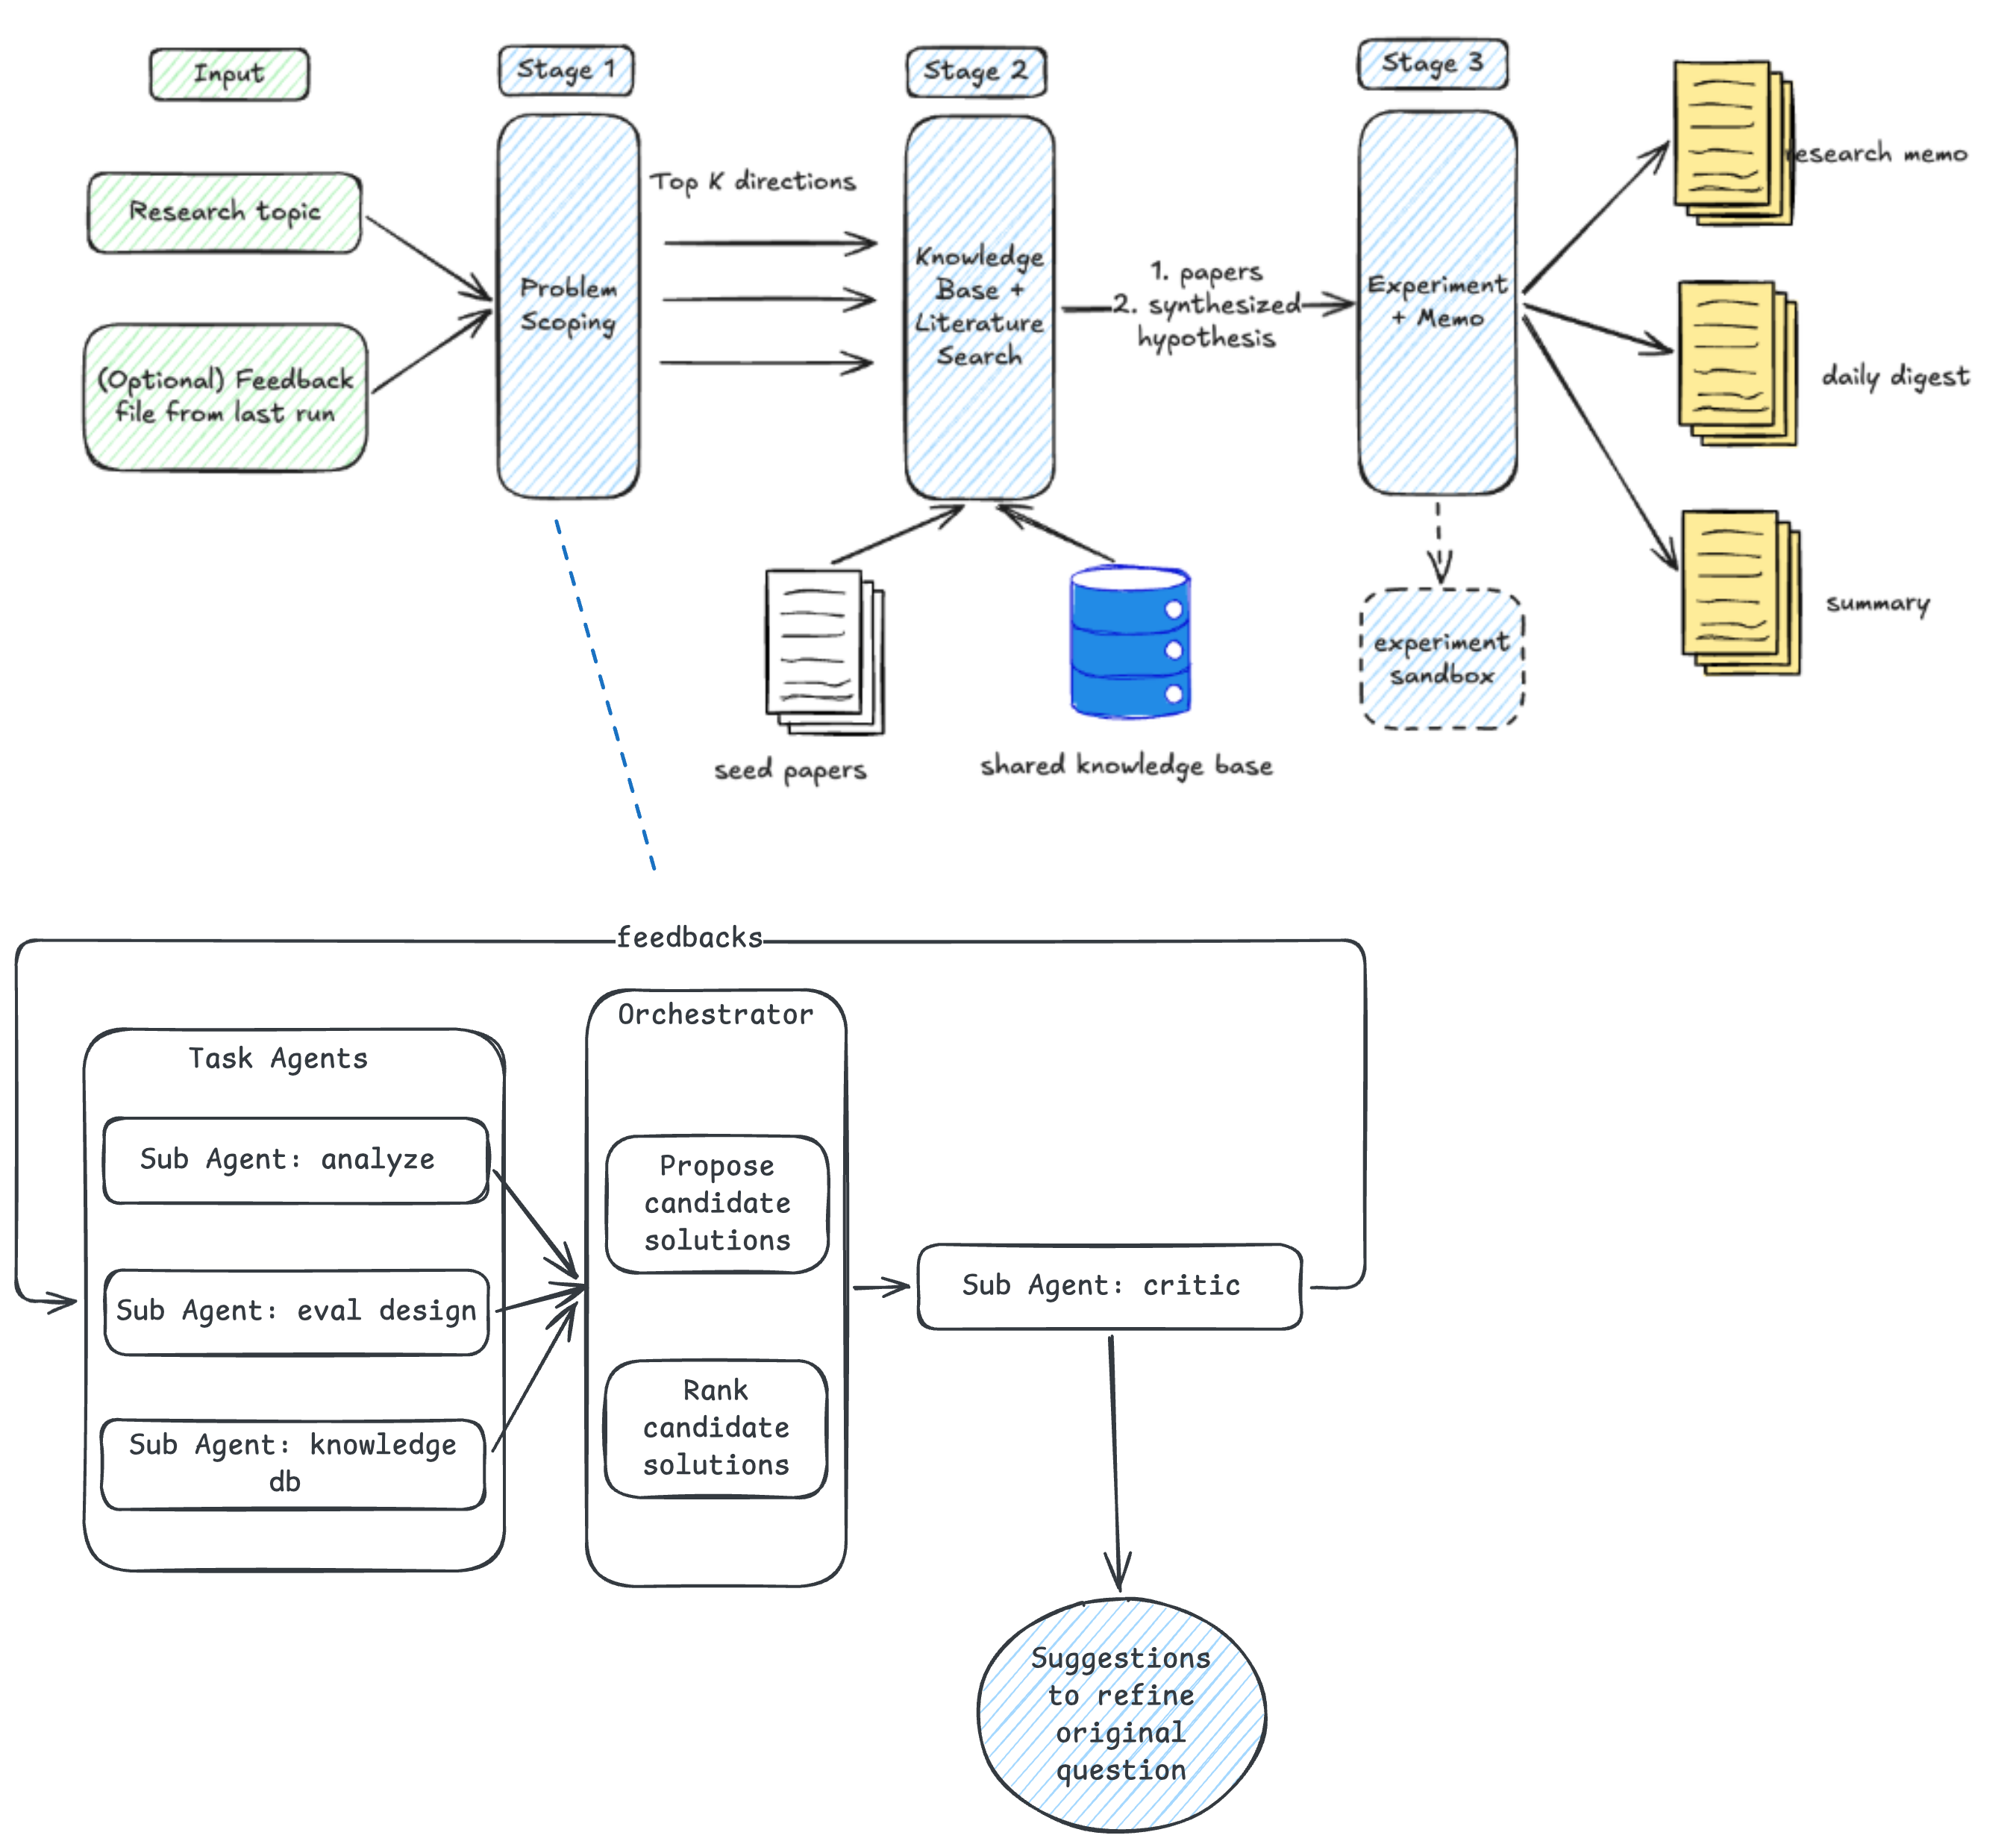
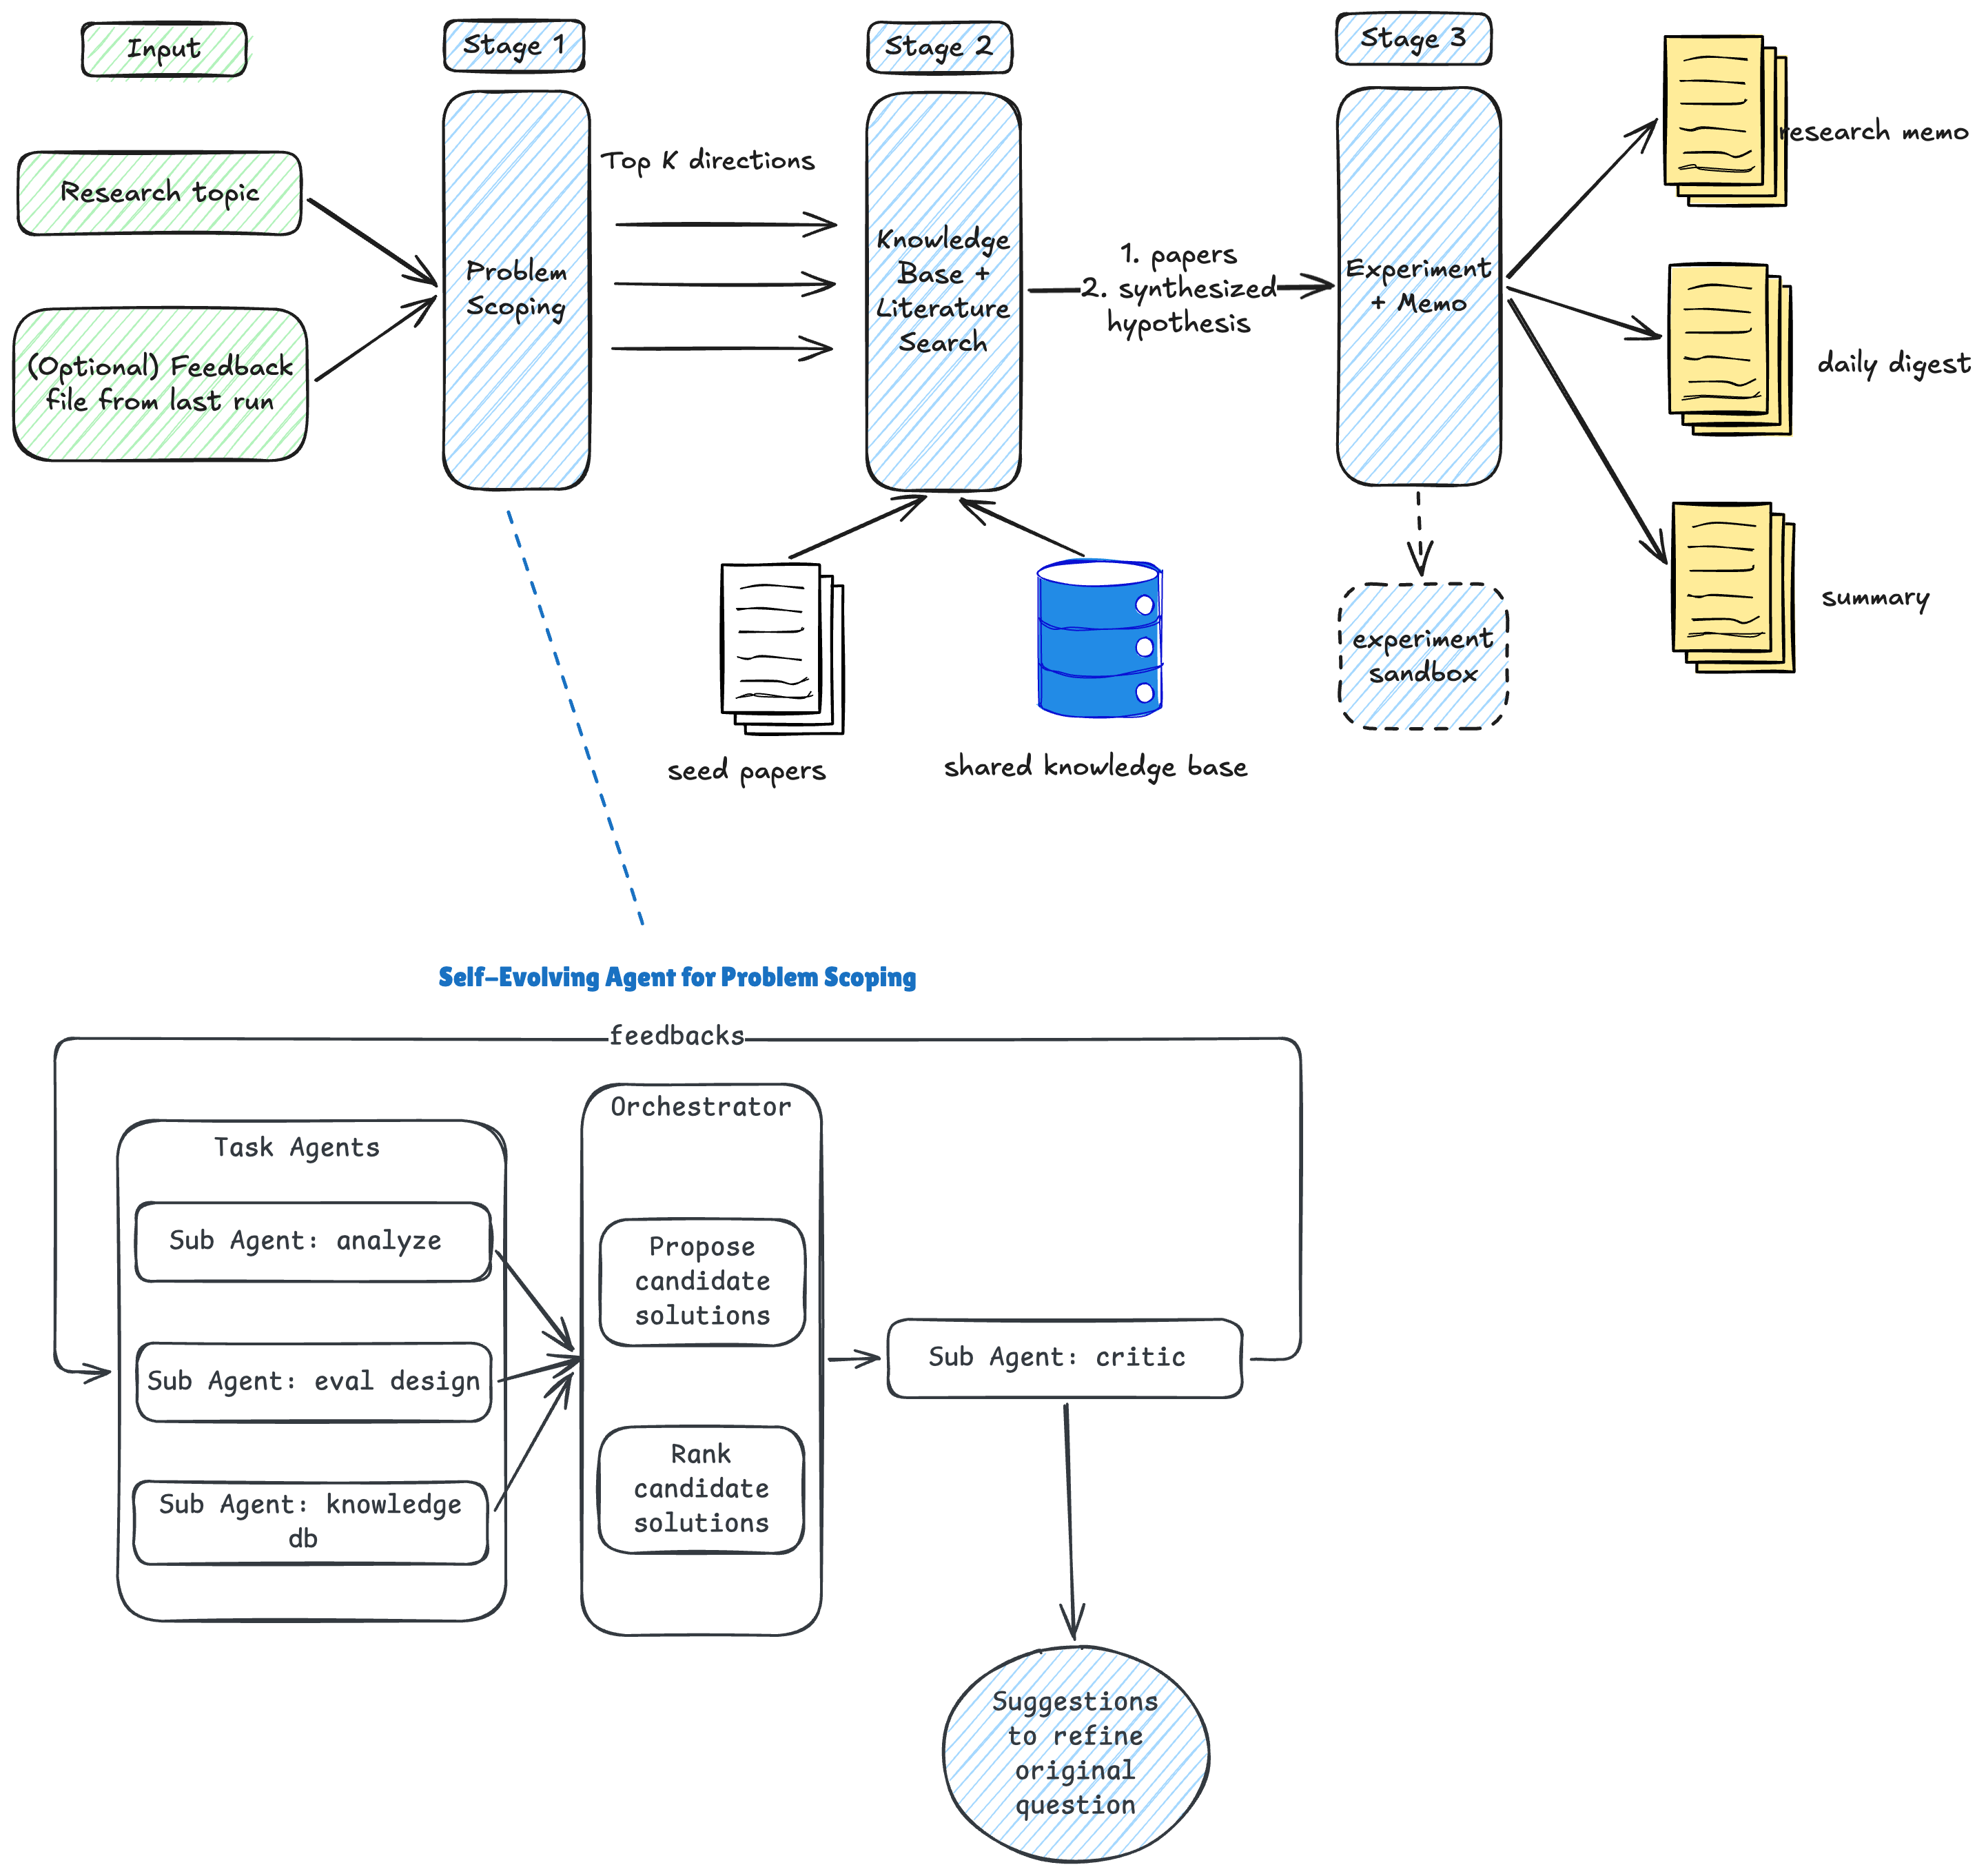
changes and bump to 1.0

Changed region(s): [[0.0, 0.0, 0.9948, 0.4354], [0.0, 0.4976, 0.6528, 0.9952], [0.6528, 0.5598, 0.6839, 0.7153]]

diff --git a/README.md b/README.md
@@ -1,83 +1,307 @@
-# AutoResearch — Lab Shell
+# AutoResearch
 
-This repo is the user-facing surface for the AutoResearch pipeline. Edit prompts, configs, and your knowledge base here; the orchestration runs inside a Docker image that's auto-pulled by `run.sh`.
+Autonomous research assistant. Given a topic and a small set of reference papers, AutoResearch scopes the problem (with a critic-evolve loop), runs a literature search, designs and executes experiments, and writes a 2-page mini-paper plus a one-page executive summary end-to-end.
+
+***Note***: this repo is the shell version of this product for the labs we're collaborating with. It doesn't contain the full code. Licensed research groups have access to the docker image of this product. 
 
 ## Setup
 
 ```bash
-# 1. Install Docker + GitHub Container Registry access
-docker login ghcr.io       # use a GitHub PAT with read:packages
+# 1. Install (uses uv)
+uv sync
 
-# 2. Copy your API key
-cp .env.example .env
-$EDITOR .env               # add ANTHROPIC_API_KEY=sk-ant-...
-
-# 3. Smoke test
-./run.sh run --help
+# 2. API key
+echo 'ANTHROPIC_API_KEY=sk-ant-...' > .env
 ```
 
-## Usage
+## Quick start
+
+### Step 1. List the reference papers in `knowledge_base/references.json`
+
+Create the file at the repo root (or wherever your config lives — see "References file location" below) with a flat JSON list of URLs:
+
+```json
+[
+  "https://bitvm.org/bitvm.pdf",
+  "https://eprint.iacr.org/2025/1485.pdf"
+]
+```
+
+Max 10 URLs per run (hard cap — raise with `scope_kb_max_papers` if you need more).
+
+### Step 2. Build the knowledge base
 
 ```bash
-# Full pipeline run on the bitcoin config
-./run.sh run --config config_bt.yaml
-
-# Scope only (fast feedback loop while editing prompts)
-./run.sh run --config config_bt.yaml --stop-after scope
-
-# Resume an existing run after editing a downstream prompt
-./run.sh run --config config_bt.yaml --resume <user_name>_20260521T143000 --start-from literature
+uv run python build_knowledgedb.py
 ```
 
-Outputs land in `research_runs/<project_id>/<user_id>_<timestamp>/`. Commit them to share with the group.
+This fetches every URL, extracts metadata (title, authors, abstract, keywords) via the LLM, and markdownifies the paper body. Output lands in `knowledge_base/index.json` + `knowledge_base/raw/<slug>.{pdf,html,md}`. Idempotent — URLs already in `index.json` are skipped on subsequent runs.
 
-## What you edit here
+You can technically skip this step — stage_scope will auto-build any missing entries on its first run — but pre-warming the cache makes the actual research run much faster.
 
-- **`prompts/*.md`** — the methodology. This is the main reason you have this repo. Edit a prompt, re-run, iterate.
-- **`config*.yaml`** — topic, model, tunables.
-- **`knowledge_base/`** — seed papers + extracted metadata. Run `./run.sh build-kb` to refresh.
+### Step 3. Write `config.yaml`
 
-When you change a prompt, save and re-run — there's no rebuild step.
+See "Configuration" below for the full schema. The minimum required fields are: `topic`, `project_id`, `user_id`, `is_base_run`, `note`.
 
-## Updating the orchestration
+### Step 4. Run the pipeline
 
-When the contractor pushes a new image version:
-
-1. `git pull` this repo — picks up the new `run.sh` PINNED_VERSION, updated canonical prompts, and a `CHANGELOG.md` entry.
-2. If you've locally modified a prompt that also changed upstream, git will surface a merge conflict. Resolve it the usual way.
-3. Run as normal — `run.sh` will pull the new image on first invocation.
-
-To peek at a version not yet pinned:
 ```bash
-AUTORESEARCH_VERSION=latest ./run.sh run --config config_bt.yaml
+# First, just run the scoping stage
+uv run python cli.py run --config config.yaml --stop-after scope
+
+# If the scoping looks good, resume the run, picking up from the stage
+uv run python cli.py run --config config.yaml \
+  --resume <user_name>_20260521T143000 \
+  --start-from literature
+
+# Verbose (prints every system+user prompt to stderr)
+uv run python cli.py run --config config.yaml --debug
 ```
 
-## Layout
+Outputs land in `research_runs/<project_id>/<user_id>_<timestamp>/`. The `00_summary.md` at the top is the executive briefing — start there.
+
+### References file location
+
+By convention the system auto-discovers `<config_dir>/knowledge_base/references.json`. Override with the `references:` field in your config if you keep your KB elsewhere (e.g. shared across projects).
+
+## Knowledge base
+
+The knowledge base is the set of reference papers the scope stage feeds into every sub-agent (analysis, eval_design, scope orchestrator, critic, evolve). All you maintain is `references.json` — a flat list of URLs.
+
+### Folder layout
 
 ```
-.
-├── run.sh                   # wraps docker run
-├── prompts/                 # canonical methodology — edit freely
-│   ├── scope.md
-│   ├── analysis.md
-│   ├── eval_design.md
-│   ├── critic.md
-│   ├── evolve.md
-│   ├── search_queries.md
-│   ├── literature_rank.md
-│   ├── literature_synthesis.md
-│   ├── experiment_*.md
-│   ├── summary.md
-│   ├── kb_extract.md
-│   └── graph_extract.md
-├── config_bt.yaml           # bitcoin / cryptography topic
-├── config_ml.yaml           # alt topic
-├── knowledge_base/
-│   ├── index.json
-│   ├── references.json
-│   └── raw/                 # gitignored — re-fetchable from references.json
-├── research_runs/           # outputs — commit selectively
-├── CHANGELOG.md
-├── .env.example
-└── .gitignore
+knowledge_base/
+├── references.json    ← you edit this
+├── index.json         ← auto-generated metadata (title, authors, abstract, keywords)
+└── raw/               ← auto-fetched paper bodies
+    ├── bitvm-compute-anything.md         ← markdown extracted from PDF/HTML
+    ├── bitvm-compute-anything.pdf        ← original (heavy; gitignored by default)
+    └── ...
 ```
+
+### Auto-build on scope-stage run
+
+When stage_scope runs, it reads `references.json` and for each URL not yet in `index.json`:
+
+1. Fetches the URL (PDF or HTML)
+2. Markdownifies the body to `raw/<slug>.md`
+3. Calls the LLM with `prompts/kb_extract.md` to extract metadata
+4. Appends an entry to `index.json`
+
+Already-indexed URLs are skipped. So `references.json` is the only file you edit; the system handles the rest.
+
+### Manual build (optional)
+
+You can also pre-warm the cache before running the pipeline:
+
+```bash
+# Default knowledge_base/ next to the repo root
+uv run python build_knowledgedb.py
+
+# A different directory (e.g. per-project KB)
+uv run python build_knowledgedb.py --kb-dir bitcoin_kb
+
+# Re-extract everything
+uv run python build_knowledgedb.py --force
+```
+
+### Constraints
+
+- **Max 10 papers** per `references.json` by default — the scope stage hard-fails if more. Raise with `scope_kb_max_papers` (see below). The cap exists because every sub-agent sees the full markdown of every paper.
+- **40k chars per paper** — papers longer than this get truncated with a `[...TRUNCATED]` marker (and an alert in the log). Raise with `scope_kb_max_chars_per_paper` if your papers are dense.
+- **Caching**: the KB is injected as a `cache_control: ephemeral` system block in every sub-agent call. First call writes the cache (~~125% input price for that block); subsequent calls within 5 minutes read it (~~10% price). Roughly 3× cheaper than passing it uncached.
+
+## Configuration
+
+All paths in the YAML resolve relative to the config file's directory, not the shell's working directory.
+
+### Full config example
+
+This shows every field. Required fields are uncommented; optional fields show their default value.
+
+```yaml
+# ── Required ──────────────────────────────────────────────────────────
+
+# The research problem in one sentence. Drives every downstream stage.
+topic: "Optimize Bitcoin on-chain cost for bridge publication."
+
+# Project slug — groups runs of the same research area together.
+# Allowed chars: lowercase letters, digits, underscore, hyphen.
+# Must start and end alphanumerically.
+project_id: "bitcoin-cost-optimization"
+
+# User slug — identifies who launched the run. Same rules as project_id.
+# Folder names embed this: research_runs/<project_id>/<user_id>_<timestamp>/
+user_id: "xxx"
+
+# true  = fresh run; later fields starting with `base_run_id` / `feedbacks_file`
+#         MUST be omitted.
+# false = iterative run; `base_run_id` + `feedbacks_file` REQUIRED below.
+is_base_run: true
+
+# Free-text note shown in the scope artifact's header. Use "" if none.
+# Good for tagging a run with a short reminder (e.g. "trying smaller KB").
+note: ""
+
+
+# ── Iterative run only — omit when is_base_run: true ─────────────────
+
+# Run folder name to refine. Three accepted shapes:
+#   leaf:                 <user_name>_20260508T132542
+#   project-qualified:    bitcoin-cost-optimization/<user_name>_20260508T132542
+#   full path:            research_runs/bitcoin-cost-optimization/<user_name>_...
+# base_run_id: "<user_name>_20260508T132542"
+
+# Path to a markdown file containing reviewer feedback for this iteration.
+# Resolved relative to the config file. Each stage reads its prior artifact
+# and this file to produce a refined version.
+# feedbacks_file: "./feedbacks.md"
+
+
+# ── Knowledge base ────────────────────────────────────────────────────
+
+# Path to references.json (a flat JSON list of paper URLs). If omitted,
+# auto-discovers <config_dir>/knowledge_base/references.json. Set explicitly
+# only when your KB lives elsewhere (e.g. shared across projects).
+# references: "./knowledge_base/references.json"
+
+# Hard ceiling on the number of URLs in references.json. Scope stage fails
+# BEFORE doing any fetching when this is exceeded. Default is the safe
+# context-budget assumption: 10 papers × 40k chars ≈ 100k tokens injected
+# into every sub-agent call. Raise only if you've measured the token math.
+scope_kb_max_papers: 10
+
+# Per-paper char cap when injecting markdown into sub-agent prompts.
+# Papers longer than this are head-truncated with a "[...TRUNCATED]" marker
+# and an alert in the log. Raise for dense papers; lower to save tokens.
+scope_kb_max_chars_per_paper: 40000
+
+
+# ── Model ─────────────────────────────────────────────────────────────
+
+# Anthropic model used for the main pipeline (scope, rank, synth, experiment).
+# Stage 2 also spins up a haiku for cheap query-gen + web search regardless.
+# Examples: claude-opus-4-7, claude-sonnet-4-6
+model: "claude-opus-4-7"
+
+# Default per-call output cap. Each LLM.complete() defaults to this unless
+# overridden (codegen uses exp_codegen_max_tokens below). Raise for stages
+# that emit long markdown (memo, summary); lower to enforce conciseness.
+max_tokens: 16384
+
+
+# ── Output ────────────────────────────────────────────────────────────
+
+# Where run folders are written. Each run lands at
+# <output_dir>/<project_id>/<user_id>_<timestamp>/. Default: ./research_runs
+output_dir: "./research_runs"
+
+
+# ── Stage 2: literature search ───────────────────────────────────────
+
+# Raw hits pulled per web_search query before dedupe. Lower to save haiku
+# tokens / wall-clock; raise for broader coverage of niche topics.
+lit_results_per_query: 5
+
+# Number of ranked survivors that enter the synthesis call. The synthesis
+# LLM sees one paper-row per item, so this drives the size of the final
+# literature.md. Default: 12.
+lit_top_n: 20
+
+
+# ── Stage 3: experiment ──────────────────────────────────────────────
+
+# Wall-clock budget (seconds) for ONE attempt of the generated experiment
+# subprocess. If it times out, the self-heal loop feeds the traceback back
+# to the LLM for a patch. Raise for simulations with high trial counts.
+exp_timeout_sec: 500
+
+# Self-heal attempts before giving up. Each retry costs one LLM patch call
+# plus one subprocess run. Default: 3.
+exp_max_retries: 3
+
+# Per-call output cap for codegen + patch (separate from max_tokens because
+# experiment code is long — easy to truncate mid-file otherwise).
+# Default: 32768. Sonnet supports up to 64000.
+exp_codegen_max_tokens: 16384
+```
+
+## CLI
+
+```bash
+# First, just run the scoping stage
+uv run python cli.py run --config config_bt.yaml --stop-after scope
+
+# If the scoping looks good, resume the run, picking up from the stage
+uv run python cli.py run --config config_bt.yaml \
+  --resume <user_name>_20260521T143000 \
+  --start-from literature
+
+# Verbose (prints every system+user prompt to stderr)
+uv run python cli.py run --config config_bt.yaml --debug
+```
+
+Stage names: `scope`, `literature`, `experiment`, `summary`.
+
+### Iterative runs
+
+Edit your config:
+
+```yaml
+is_base_run: false
+base_run_id: "<user_name>_20260521T143000"   # the prior run to refine
+feedbacks_file: "./feedbacks.md"         # your free-text feedback
+```
+
+Then run normally — each stage adapts its prior artifact against the feedback. The summary stage adds a `### Changes from base run` section.
+
+## Web UI
+
+```bash
+uv run python -m app
+# → http://127.0.0.1:8000
+```
+
+Dashboard lists every project's runs (newest first) and shows a YAML preview of the selected config. Click any run for the live log + rendered markdown artifacts + an **Iterate this run** button that spawns a refinement from a feedback textarea.
+
+Port via `AUTORESEARCH_PORT` (default 8000). One run at a time.
+
+## Pipeline stages
+
+
+| #   | File                               | Output                                                                   |
+| --- | ---------------------------------- | ------------------------------------------------------------------------ |
+| 1   | `src/pipeline/stage_scope.py`      | `01_*.md` — analysis, eval_design, scope (with critic/evolve iterations) |
+| 2   | `src/pipeline/stage_literature.py` | `02_literature.md` — annotated bibliography + gap analysis               |
+| 3   | `src/pipeline/stage_experiment.py` | `03_experiment/{run.py, analysis.md, ...}` + `04_memo.md` (mini paper)   |
+| 4   | `src/pipeline/stage_summary.py`    | `00_summary.md` — executive briefing at the top of the run folder        |
+
+
+## Output artifacts — what's in a run folder
+
+After a run completes, `research_runs/<project>/<user_name>_<timestamp>/` contains the files below. Start with `00_summary.md`.
+
+
+| Stage         | File                               | Description                                                                                                                      |
+| ------------- | ---------------------------------- | -------------------------------------------------------------------------------------------------------------------------------- |
+| 1. Scope      | `01_1_analysis.md`                 | Frames the problem before picking solutions — context, constraints, and candidate-archetype space.                               |
+| 1. Scope      | `01_2_eval_design.md`              | Evaluation metrics the scope orchestrator will use to compare candidate directions.                                              |
+| 1. Scope      | `01_3_scope.md`                    | Orchestrator's proposal: candidate solution directions scored against the metrics, plus the chosen direction with justification. |
+| 1. Scope      | `01_4_critic_N.md`                 | Independent 0-10 score of the current scope proposal with structured feedback. One file per critic invocation.                   |
+| 1. Scope      | `01_5_evolve_N.md`                 | Refined scope produced in response to the critic's feedback. One file per evolve iteration.                                      |
+| 2. Literature | `02_literature.md`                 | Annotated bibliography (10-15 papers) + gap analysis tied to the scope's Key Questions.                                          |
+| 2. Literature | `02_suggested_references.json`     | URLs of papers found during search that aren't yet in `knowledge_base/index.json`.                                               |
+| 3. Experiment | `03_experiment/exp_plan.md`        | Experiment design: hypothesis, approach, baseline, inputs, metrics, procedure, JSON output schema.                               |
+| 3. Experiment | `03_experiment/run.py` (+ helpers) | Generated Python program the code generator emitted. Prints a JSON metrics object to stdout as its last line.                    |
+| 3. Experiment | `03_experiment/metrics.json`       | Raw JSON metrics from the final successful run. Absent if all attempts failed.                                                   |
+| 3. Experiment | `03_experiment/results.csv`        | 2-column `name,value` flattening of `metrics.json` for spreadsheet inspection.                                                   |
+| 3. Experiment | `03_experiment/fig_*.png`          | Charts the generated code emitted. At least one per experiment (codegen-mandated).                                               |
+| 3. Experiment | `03_experiment/analysis.md`        | Results-focused write-up reading the metrics + charts and interpreting them against the hypothesis.                              |
+| 3. Experiment | `03_experiment/run_log.json`       | Per-attempt history: exit code, duration, timed-out flag. Useful when an experiment failed.                                      |
+| 3. Experiment | `04_memo.md`                       | 2-page mini-paper at the run-dir top level. Frames the result in context of the original scope.                                  |
+| 4. Summary    | `00_summary.md`                    | One-page executive briefing aggregating scope, literature, analysis, memo + cost. Written last, read first.                      |
+| (always)      | `log.md`                           | Timestamped event log of every stage transition, LLM call (with token + cost), artifact write, and error.                        |
+| (always)      | `run_config.yaml`                  | Snapshot of the YAML config this run was launched with. Makes the run self-describing.                                           |
+
+